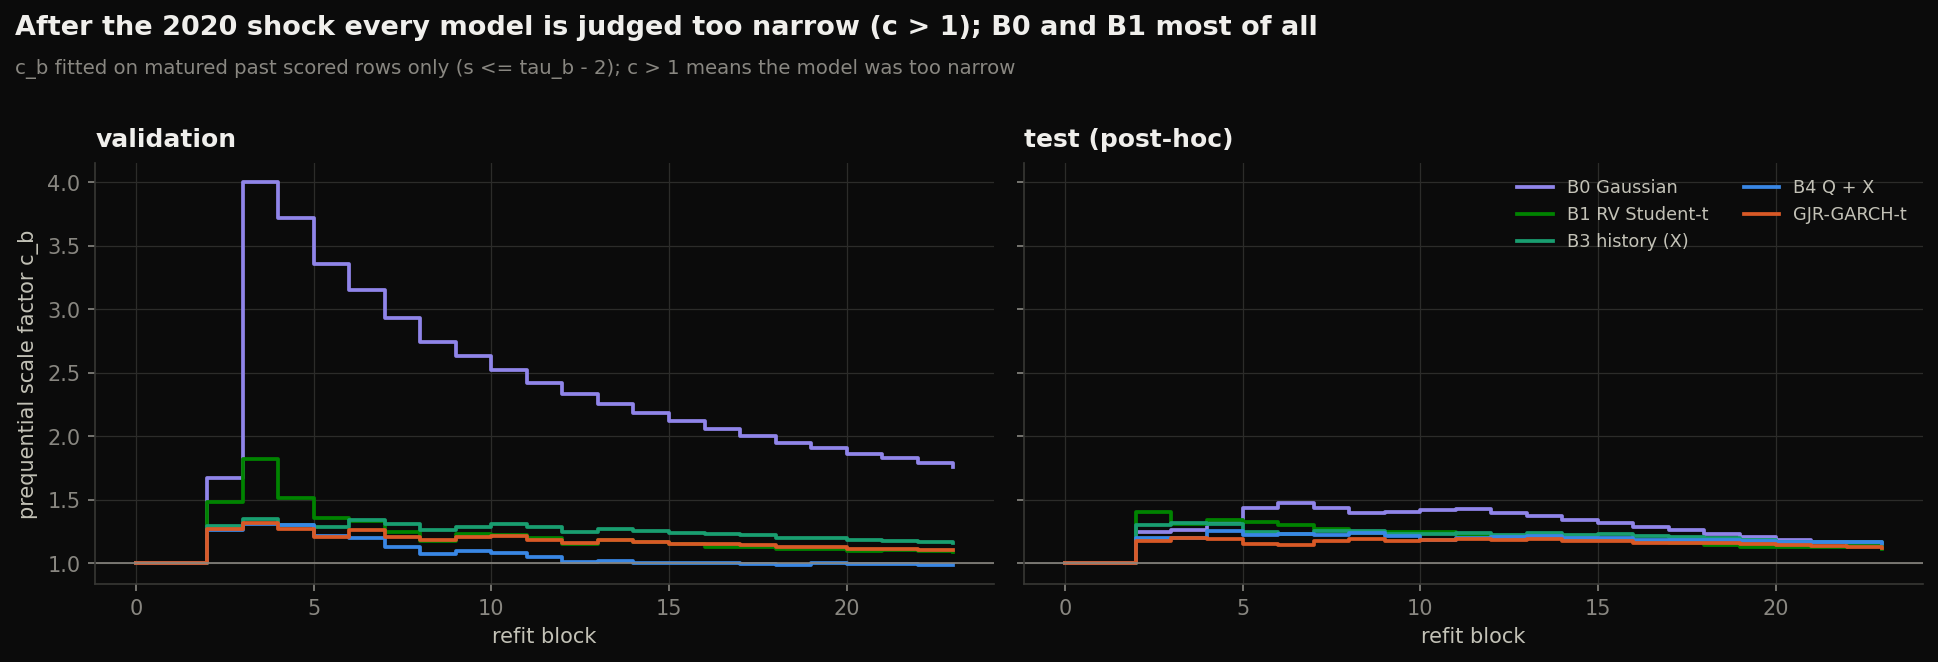
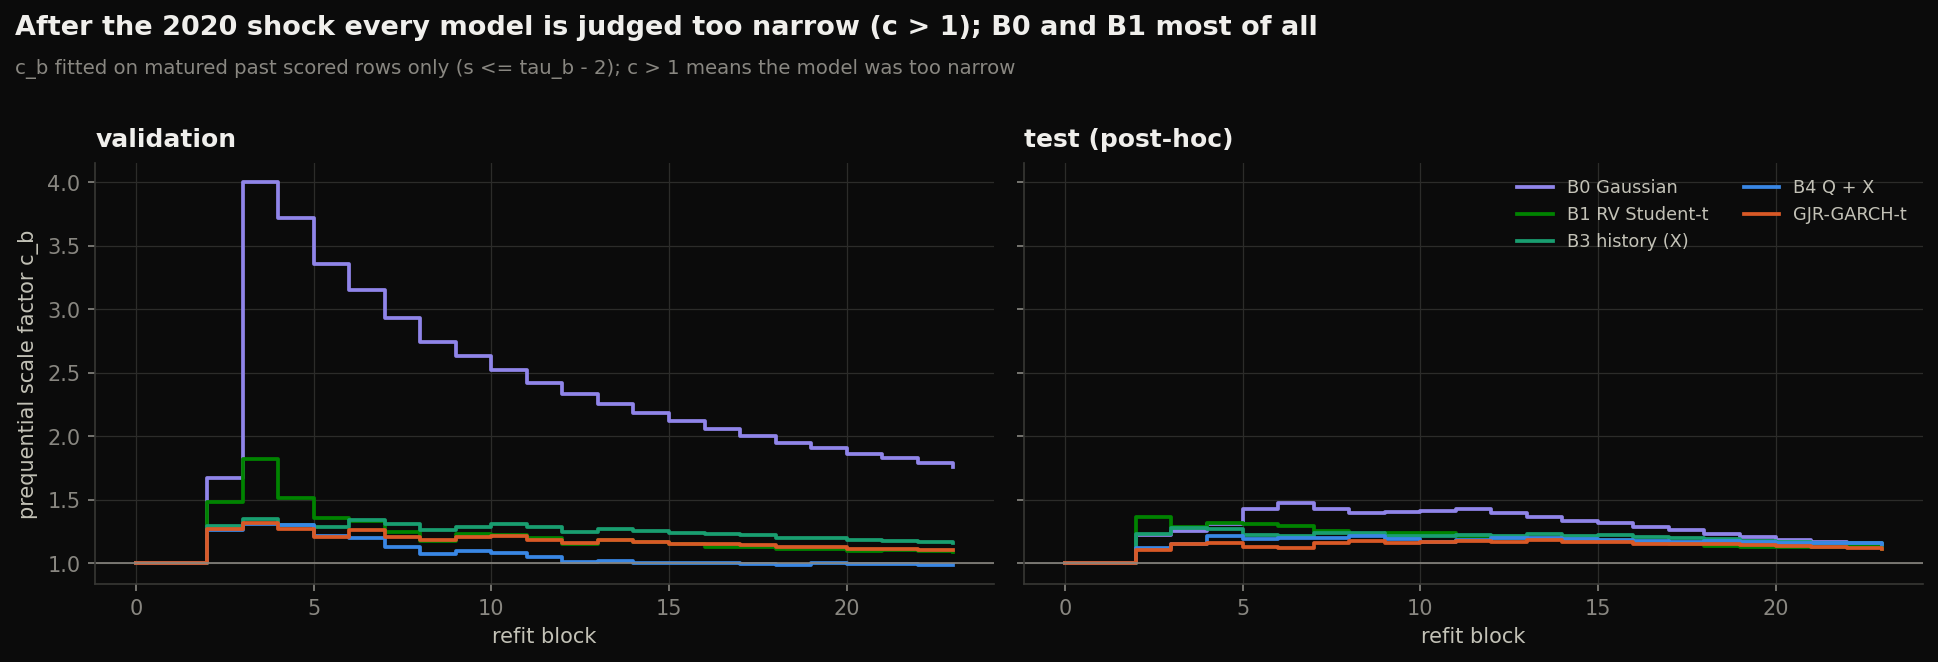
Figures: recalibrate the test period on the primary N=500 sample, as in the Step 8 protocol
Scorecard and forest plot now match output/stage8_test_v2 exactly
(test recalibrated Q1 +0.0174, p 0.005).

Changed region(s): [[0.5882, 0.7553, 0.9907, 0.8459]]

diff --git a/scratch/make_figures.py b/scratch/make_figures.py
@@ -452,14 +452,13 @@ def fig_forecasts(D):
 def fig_tests(D, R):
     v, t = D["vclip"], D["tclip"]
     tp = t[t["date"] != "2022-01-03"].reset_index(drop=True)
-    tprim = (t["date"] != "2022-01-03").values
     rv, rt = R["val"], R["test"]
 
     # 21 log score vs GJR, by setting
     settings = [("validation raw", {m: v[f"{m}_log_p"].values for m in MODELS}),
                 ("validation recalibrated", {m: rv[m]["log_p"] for m in MODELS}),
                 ("test raw", {m: tp[f"{m}_log_p"].values for m in MODELS}),
-                ("test recalibrated", {m: rt[m]["log_p"][tprim] for m in MODELS})]
+                ("test recalibrated", {m: rt[m]["log_p"] for m in MODELS})]
     ms_ = ["B1", "B2", "B3", "B4", "R1"]
     fig, axes = plt.subplots(1, 4, figsize=(14, 4.4), sharey=True)
     for ax, (nm, lp) in zip(axes, settings):
@@ -533,7 +532,7 @@ def fig_tests(D, R):
             "val raw": summ(v[f"{a}_log_p"].values - v[f"{b}_log_p"].values),
             "val recal": summ(rv[a]["log_p"] - rv[b]["log_p"]),
             "test raw": summ(tp[f"{a}_log_p"].values - tp[f"{b}_log_p"].values),
-            "test recal": summ(rt[a]["log_p"][tprim] - rt[b]["log_p"][tprim]),
+            "test recal": summ(rt[a]["log_p"] - rt[b]["log_p"]),
         }
     R["summ"] = res
     styles = {"val raw": (INK, "o", True), "val recal": (INK, "o", False), "test raw": ("#e66767", "s", True), "test recal": ("#e66767", "s", False)}
@@ -941,7 +940,9 @@ def main():
     os.makedirs(GIF, exist_ok=True)
     D = load()
     print("recalibration ...")
-    R = {"val": recal_frame(D["vclip"], D["v_idx"], D["v_tau"]), "test": recal_frame(D["tclip"], D["t_idx"], D["t_tau"])}
+    prim = (D["tclip"]["date"] != "2022-01-03").values  # protocol: recalibrate on the primary N = 500 sample
+    R = {"val": recal_frame(D["vclip"], D["v_idx"], D["v_tau"]),
+         "test": recal_frame(D["tclip"][prim].reset_index(drop=True), D["t_idx"][prim], D["t_tau"])}
     print("A. data");
     fig_data(D)
     print("B. optimizer");
